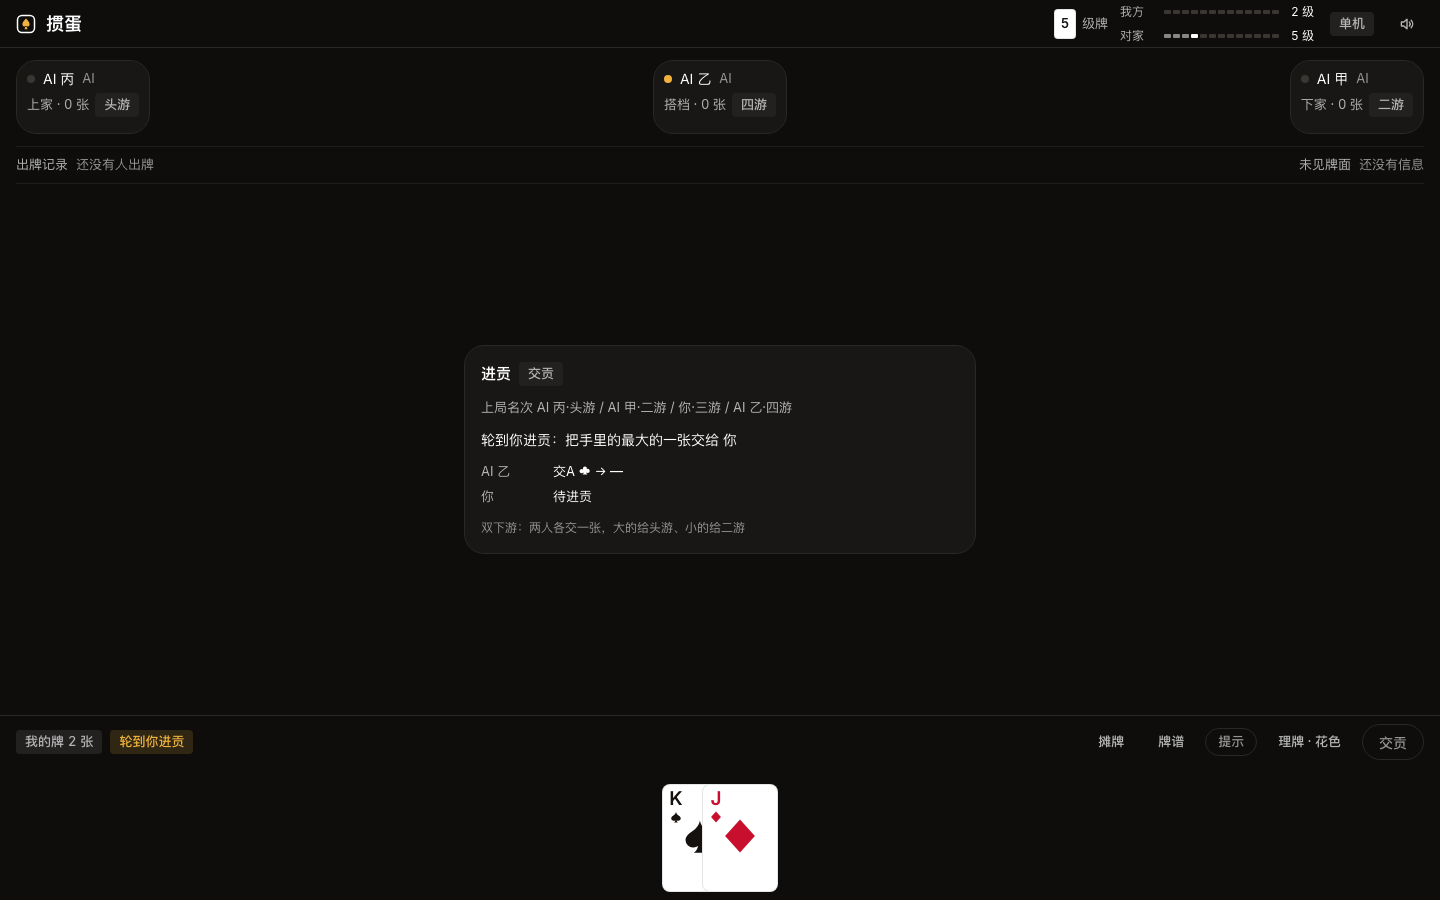
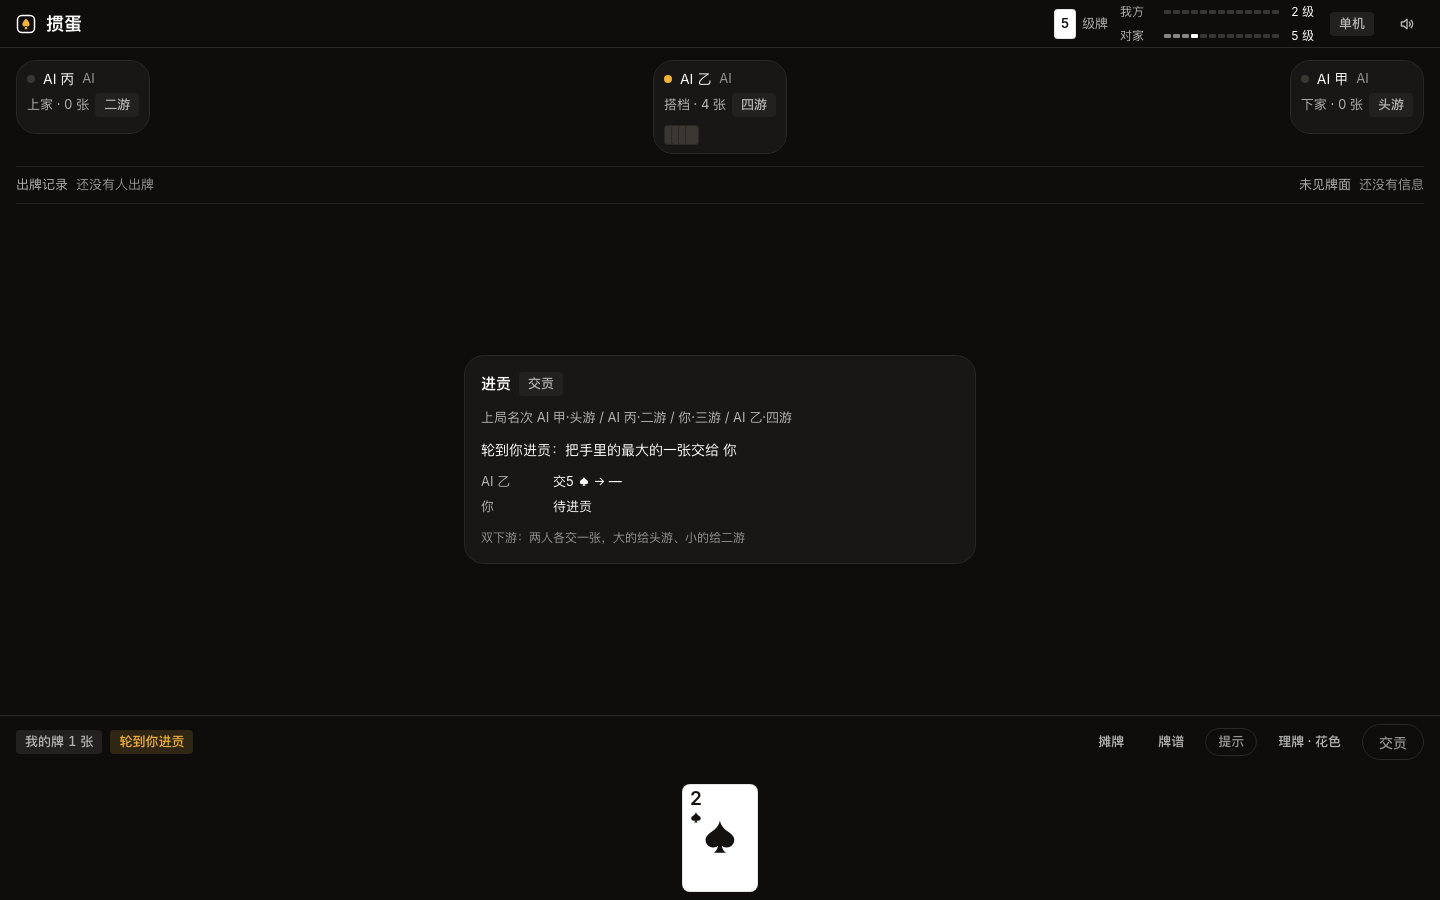
fix(core): 进贡新局时贡牌没从牌堆剔掉——同一张牌在两个人手里，牌局会卡死
这轮加了个压力跑脚本（连打整场查规则边角），当场抓到一个真 bug。

根因：进贡的贡牌要进收贡者手牌，但新一局又从整副新牌堆发牌，没把贡牌从牌堆里
剔掉——所以收贡者手里那一张，在牌堆里还有一张同 id 的。AI 若挑中这张牌出牌，
引擎会拒收（ids 有重复）→ 状态不变 → 牌局直接卡死。

修法：发新局时先 filter 掉所有贡牌的 id 再发牌。

回归测试：进贡新局后每人手里无重复、四家合计 108 张、全场 id 互不相同；去掉
修复这条测试会红（26 ≠ 27）。

压力跑：100 场整场、1849 局，0 问题（修之前每一场都会卡在进贡后）。

验收：147 tests 全绿；九条真浏览器冒烟全过；inspect 0 FAIL 0 WARN，lint 0 FAIL。

diff --git a/scripts/soak-matches.ts b/scripts/soak-matches.ts
@@ -1,0 +1,95 @@
+// 压力跑整场：连打多场，查规则边角（级数、进贡、整场结束条件）
+import { aiMove, aiTributeMove } from '../src/core/ai.ts'
+import { nextRound, step, type GameState } from '../src/core/engine.ts'
+
+const issues: { kind: string; detail: string }[] = []
+const note = (kind: string, detail: string) => issues.push({ kind, detail })
+
+function checkInvariants(st: GameState, round: number) {
+  for (const team of ['even', 'odd'] as const) {
+    const lv = st.levels[team]
+    if (lv < 2 || lv > 14) note('级数越界', `${team}=${lv}（第 ${round} 局）`)
+  }
+  const finished = st.players.filter((p) => p.finishOrder !== null)
+  if (finished.length > 0 && finished.length < 4 && st.phase === 'ended') {
+    note('结算时有人没走完', `finished=${finished.length}`)
+  }
+  const orders = st.players.map((p) => p.finishOrder).filter((o) => o !== null) as number[]
+  if (new Set(orders).size !== orders.length) note('名次重复', JSON.stringify(orders))
+}
+
+function playMatch(seed: number, maxRounds = 40): { rounds: number; winner: string | null } {
+  let st = nextRound(null, { seed, names: ['你', 'AI 甲', 'AI 乙', 'AI 丙'], isBot: [false, true, true, true] })
+  let rounds = 0
+  let guard = 0
+  while (guard++ < 200000) {
+    if (st.phase === 'playing') {
+      const seat = st.turn
+      const mv = aiMove(st, seat)
+      if (!mv) {
+        note('AI 无棋可走', `seed=${seed} seat=${seat}`)
+        break
+      }
+      const before = st
+      st = step(st, mv)
+      if (st === before) {
+        const table = before.trick.table
+        note(
+          '走子后状态没变',
+          `seed=${seed} step=${guard} seat=${seat} kind=${mv.kind} ids=${JSON.stringify(mv.cards)} table=${table ? table.combo.type + '/' + table.combo.rank : 'none'} level=${before.handLevel} hand=${JSON.stringify(before.players[seat]!.hand.map(c => c.id))}`,
+        )
+        break
+      }
+      continue
+    }
+    if (st.phase === 'tribute') {
+      const before = st
+      const mv = aiTributeMove(st, st.turn)
+      if (!mv) {
+        note('进贡阶段 AI 没动作', `seed=${seed} turn=${st.turn} step=${st.tribute?.step}`)
+        break
+      }
+      st = step(st, mv)
+      if (st === before) {
+        note(
+          '进贡后状态没变',
+          `seed=${seed} turn=${st.turn} step=${st.tribute?.step} givers=${JSON.stringify(st.tribute?.givers)} returnees=${JSON.stringify(st.tribute?.returnees)}`,
+        )
+        break
+      }
+      continue
+    }
+    if (st.phase === 'ended') {
+      rounds++
+      checkInvariants(st, rounds)
+      if (st.matchWinner) return { rounds, winner: st.matchWinner }
+      if (rounds >= maxRounds) {
+        note('整场没在合理局数内结束', `seed=${seed} rounds=${rounds} levels=${st.levels.even}/${st.levels.odd}`)
+        return { rounds, winner: null }
+      }
+      const next = nextRound(st, { seed: seed + rounds * 7919 })
+      if (!next) {
+        note('拿不到下一局', `seed=${seed}`)
+        break
+      }
+      st = next
+      continue
+    }
+    note('未知阶段', `seed=${seed} phase=${st.phase}`)
+    break
+  }
+  return { rounds, winner: null }
+}
+
+const N = Number(process.argv[2] ?? 30)
+let totalRounds = 0
+let winners = 0
+for (let seed = 1; seed <= N; seed++) {
+  const r = playMatch(seed)
+  totalRounds += r.rounds
+  if (r.winner) winners++
+}
+console.log(`打了 ${N} 场，共 ${totalRounds} 局，${winners} 场分出整场`)
+console.log(`问题 ${issues.length} 条`)
+for (const i of issues.slice(0, 20)) console.log(' -', i.kind, i.detail)
+if (issues.length > 0) process.exit(1)

diff --git a/src/core/tribute.test.ts b/src/core/tribute.test.ts
@@ -206,3 +206,37 @@ describe('还牌卡死的兜底', () => {
     }
   })
 })
+
+describe('进贡新局：牌不能重', () => {
+  it('贡牌要从新牌堆里剔掉，同一张牌不能出现在两个人手里', () => {
+    // 打一局到结束 → 进贡局 → 交贡 → 还牌
+    const { st } = scenario({ A: ['3'], B: ['6'], C: ['8', '5'], D: ['9', '4'] })
+    let s = st
+    s.phase = 'ended'
+    s.players[0]!.finishOrder = 0
+    s.players[1]!.finishOrder = 1
+    s.players[2]!.finishOrder = 2
+    s.players[3]!.finishOrder = 3
+    const t = newTributeRound(s)!
+    // 下游（3 号位）向上游进贡
+    const giver = t.tribute!.givers[0]!
+    const card = t.players[giver]!.hand[0]!
+    let x = step(t, { kind: 'give', seat: giver, card: card.id })
+    // 上游还一张 10 以下的牌
+    const returnee = x.tribute!.returnees[0]!
+    const back = x.players[returnee]!.hand.find((c) => c.rank <= 10)!
+    x = step(x, { kind: 'give', seat: returnee, card: back.id })
+    expect(x.phase).toBe('playing')
+
+    // 每个人手里不能有重复的牌
+    for (const p of x.players) {
+      const ids = p.hand.map((c) => c.id)
+      expect(new Set(ids).size).toBe(ids.length)
+    }
+    // 四家加起来正好 108 张
+    expect(x.players.reduce((n, p) => n + p.hand.length, 0)).toBe(108)
+    // 全场 108 张牌互不相同
+    const all = x.players.flatMap((p) => p.hand.map((c) => c.id))
+    expect(new Set(all).size).toBe(108)
+  })
+})

diff --git a/src/core/engine.ts b/src/core/engine.ts
@@ -305,7 +305,9 @@ function startTributeReturns(st: GameState): GameState {
   tt.leader = leader
 
   // 发新局：贡牌不进牌堆，直接进收贡者手牌；进贡者少拿一张（要收回还牌）
-  const deck = newShuffledDeck({ seed: tt.seed })
+  // 关键：贡牌要从新牌堆里剔掉——不然同一张牌会同时出现在牌堆和收贡者手里
+  const givenIds = new Set(payers.map((g) => tt.cards[g]!.id))
+  const deck = newShuffledDeck({ seed: tt.seed }).filter((c) => !givenIds.has(c.id))
   const players: Player[] = st.players.map((p) => ({ ...p, hand: [] as Card[], finishOrder: null }))
   let i = 0
   for (const p of players) {

diff --git a/ralph/LOG.md b/ralph/LOG.md
@@ -340,3 +340,16 @@
 - 牌型强的解释仍然优先：两张万能配 + 三张同点 = 五张炸弹，不是顺子。
 - 验收：146 tests 全绿（新增 5 条）；九条真浏览器冒烟全过；
   inspect 0 FAIL 0 WARN，lint 0 FAIL，oxlint 0 warning；测试套件反而快了（去重后）。
+
+## S29 修进贡新局的重复牌 bug（牌局会卡死） done
+- 这轮做了个压力跑脚本（scripts/soak-matches.ts：连打整场、查规则边角），
+  **当场抓到一个真 bug**：进贡开新局时，同一张牌会出现在两个人手里。
+- 根因：进贡的贡牌要进收贡者手牌，但新一局又从**整副新牌堆**发牌，
+  没把贡牌从牌堆里剔掉——所以收贡者手里那一张，在牌堆里还有一张同 id 的。
+  AI 若挑中这张牌出牌，引擎会拒收（ids 有重复）→ 状态不变 → **牌局直接卡死**。
+- 修法：发新局时先 `filter` 掉所有贡牌的 id 再发牌。
+- 回归测试（src/core/tribute.test.ts）：进贡新局后每人手里无重复、四家合计 108 张、
+  全场 id 互不相同；去掉修复这条测试会红（26 ≠ 27）。
+- 压力跑：100 场整场、1849 局，0 问题（修之前每一场都会卡在进贡后）。
+- 验收：147 tests 全绿；九条真浏览器冒烟全过；inspect 0 FAIL 0 WARN，lint 0 FAIL，
+  oxlint 0 warning。
